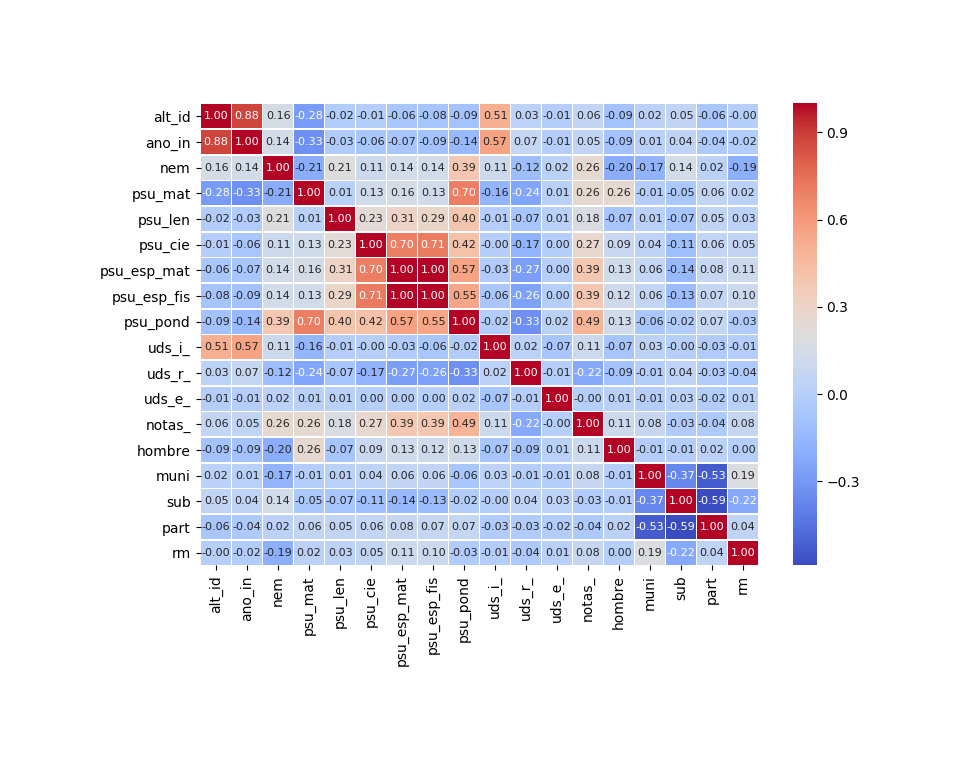
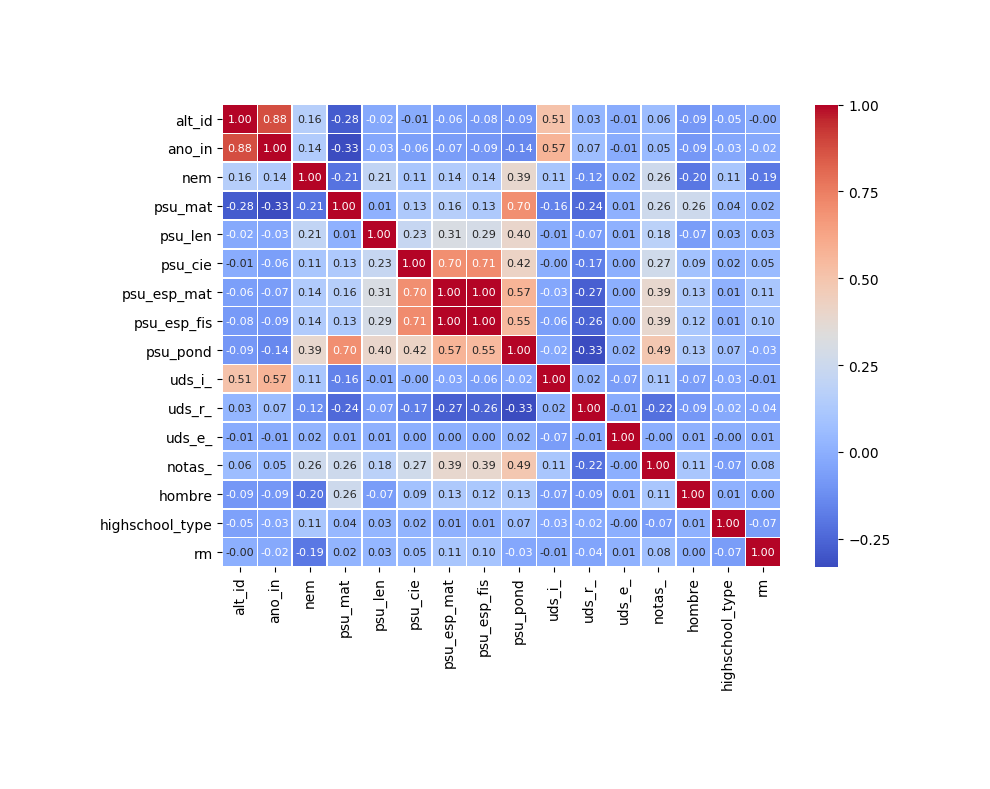
merged different school type columns into one highschool type column

diff --git a/src/visualization/heatmap.py b/src/visualization/heatmap.py
@@ -13,6 +13,26 @@ public vs private schools)
 import matplotlib.pyplot as plt
 import pandas as pd
 import seaborn as sns
+import numpy as np
+
+
+def principalDataPreparation(data):
+    # drop all uninteresting columns
+    data = data.drop(columns=['rank_in', 'rank_em', 'tip_ing', 'sipee', 'bea', 'deporte', 'genero', 'rat_ud'])
+    data = data.fillna(value={'uds_e_':0})  # fill NaNs with 0 in this specific column only
+
+    # merge muni, sub and part column into one highschool type column
+    data['muni'] = data['muni'].replace([0], np.nan)
+    data['muni'] = data['muni'].replace([1], 0)
+    data['sub'] = data['sub'].replace([0], np.nan)
+    data['part'] = data['part'].replace([0], np.nan)
+    data['part'] = data['part'].replace([1], 2)
+    data['muni'] = data['muni'].fillna(data['part'])
+    data['muni'] = data['muni'].fillna(data['sub'])
+    data = data.rename(index=str, columns={"muni":"highschool_type"})
+    data = data.drop(columns=['sub', 'part'])
+
+    return data
 
 def successfulStudents():
     """
@@ -21,9 +41,8 @@ def successfulStudents():
     """
     data = pd.read_excel('../../data/ChileUniversity/UCH-FCFM-GRADES_2010_2014_chato.xls.xlsx')
 
-    # drop all uninteresting columns
-    data = data.drop(columns=['rank_in', 'rank_em', 'tip_ing', 'sipee', 'bea', 'deporte', 'genero', 'rat_ud'])
-    data = data.fillna(value={'uds_e_':0})  # fill NaNs with 0 in this specific column only
+    data = principalDataPreparation(data)
+
     data = data[data['sem'] == 1]
     data = data[data['inactivo'] != 1]
     data = data[data['uds_e_'] <= 10]
@@ -48,10 +67,8 @@ def allStudents():
     this means they were not "inactive" and non of their values in the relevant columns were NaN
     """
     data = pd.read_excel('../../data/ChileUniversity/UCH-FCFM-GRADES_2010_2014_chato.xls.xlsx')
+    data = principalDataPreparation(data)
 
-    # drop all uninteresting columns
-    data = data.drop(columns=['rank_in', 'rank_em', 'tip_ing', 'sipee', 'bea', 'deporte', 'genero', 'rat_ud'])
-    data = data.fillna(value={'uds_e_':0})  # fill NaNs with 0 in this specific column only
     data = data[data['sem'] == 1]
     data = data[data['inactivo'] != 1]
         # after the above steps these columns contain all the same value and hence can be dropped
